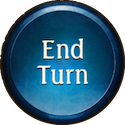
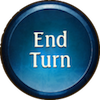
bunch of scaling changes

diff --git a/cards/CardHand.js b/cards/CardHand.js
@@ -1,5 +1,5 @@
 function CardHand(game, dungeon, PlayerCharacter, opacity){
-    this.x = 525;// each card will be 75 units wide for now
+    this.x = game.width / 3.7;// each card will be 75 units wide for now
     this.y = game.height * .7;
     this.dungeon = dungeon;
     this.opacity = opacity;
@@ -56,7 +56,8 @@ CardHand.prototype.generateInitialHand = function () {
     for(let i = 0; i < this.currentCardDraw; i++) {
         var myNum = getRandomInt(this.DeckListCardsRemaining.length);
         var card = this.DeckListCardsRemaining[myNum];
-        var newCard = new Card(this.game, this.dungeon, this, card, this.x + (card.width * i), this.y,  i)
+        //debugger
+        var newCard = new Card(this.game, this.dungeon, this, card, this.x + (this.width * i), this.y,  i)
         var index = this.DeckListCardsRemaining.indexOf(card);
         if (index > -1) {
             this.DeckListCardsRemaining.splice(index, 1);
@@ -92,8 +93,8 @@ CardHand.prototype.generateNewHand = function () {
         
         var myNum = getRandomInt(this.DeckListCardsRemaining.length);
         var card = this.DeckListCardsRemaining[myNum];
-
-        var newCard = new Card(this.game, this.dungeon, this, card, this.x + (card.width * i), this.y,  i )
+        //debugger
+        var newCard = new Card(this.game, this.dungeon, this, card, this.x + (this.width * i), this.y,  i )
 
         var index = this.DeckListCardsRemaining.indexOf(card);
         if (index > -1) {
@@ -123,6 +124,7 @@ CardHand.prototype.drawCard = function () {
     if (this.DeckListCardsRemaining.length != 0) {
         var myNum = getRandomInt(this.DeckListCardsRemaining.length);
         var card = this.DeckListCardsRemaining[myNum];
+        //debugger
         var newCard = new Card(this.game, this.dungeon, this, card, this.x, this.y, this.cardsInHand.length)
         var index = this.DeckListCardsRemaining.indexOf(card);
         if (index > -1) {
@@ -142,7 +144,8 @@ CardHand.prototype.addCard = function (card) {
 
         console.log(card)
     }
-    var newCard = new Card(this.game, this.dungeon, this, card, this.x + (card.width * this.cardsInHand.length), this.y, this.cardsInHand.length)
+    //debugger
+    var newCard = new Card(this.game, this.dungeon, this, card, this.x + (this.width * this.cardsInHand.length), this.y, this.cardsInHand.length)
     this.cardsInHand.push(newCard);
 }
 

diff --git a/miscassets/ManaBar.js b/miscassets/ManaBar.js
@@ -37,14 +37,14 @@ ManaBar.prototype.draw = function () {
     }
 
     this.ctx.save();
-    this.ctx.font = "40px Impact";
+    this.ctx.font = "30px Impact";
     this.ctx.fillStyle = "#ffffff";
-    this.ctx.fillText(this.mana , this.x + 50, this.y + 80 ); 
-    this.ctx.font = "70px Impact";
+    this.ctx.fillText(this.mana , this.x + 35, this.y + 60 ); 
+    this.ctx.font = "50px Impact";
 
-    this.ctx.fillText('/', this.x + 75, this.y + 110 ); 
-    this.ctx.font = "40px Impact";
-    this.ctx.fillText(this.maxMana , this.x + 110, this.y +120 ); 
+    this.ctx.fillText('/', this.x + 55, this.y + 85 ); 
+    this.ctx.font = "30px Impact";
+    this.ctx.fillText(this.maxMana , this.x + 80, this.y + 100 ); 
     this.ctx.restore();
 
 };

diff --git a/miscassets/TopBanner.js b/miscassets/TopBanner.js
@@ -7,7 +7,7 @@ function TopBanner(game,opacity) {
     this.game = game;
     this.ctx = game.ctx;
     this.width = game.width;
-    this.height = game.width / 24;
+    this.height = 120;
     this.banner_spritesheet = AM.getAsset("./img/travel/top banner.png")
     this.sprite_heart = AM.getAsset("./img/heart_sprite.png")
     this.sprite_gold = AM.getAsset("./img/gold_sprite.png")
@@ -29,7 +29,7 @@ TopBanner.prototype.draw = function () {
 
     this.ctx.save();
     this.ctx.fillStyle = "#FF8C00";
-    this.ctx.font = '40px Arial Black'
+    this.ctx.font = '30px Arial Black'
 
     //displays class and icon
     this.ctx.drawImage(this.sprite_class, 15, this.yOffset);

diff --git a/main.js b/main.js
@@ -96,7 +96,7 @@ AM.downloadAll(function () {
     gameEngine.height = canvas.height;
 
     var myManaBar = new ManaBar(gameEngine, [AM.getAsset("./img/mana_bar.png"),AM.getAsset("./img/mana_empty.png"),
-                                             AM.getAsset("./img/mana_circle.png")], 150, 150, 1);
+                                             AM.getAsset("./img/mana_circle.png")], 100, 100, 1);
     
     var myBanner = new TopBanner(gameEngine, 1);
 

diff --git a/miscassets/TurnButton.js b/miscassets/TurnButton.js
@@ -1,7 +1,7 @@
 function TurnButton(game, cardHand, spritesheet, opacity) {
-  this.y = game.height * .5;
-  this.x = game.width * .854;
-  this.dimensions = 200;
+  this.y = game.height * .73;
+  this.x = game.width * .82;
+  this.dimensions = 130;
   this.opacity = opacity;
   this.spritesheet = spritesheet;
   this.game = game;

diff --git a/enemy/EnemyDataBase.js b/enemy/EnemyDataBase.js
@@ -9,7 +9,7 @@ function EnemyDataBase(game, spritesheet) {
         health: 100,
         name: 'slime',
         x: game.width * .66667, //1000
-        y: game.height * .567,  //400
+        y: game.height * .5,  //400
         hpx: game.width * .66667 - 40,
         hpy: game.height * .567 - 40,
         attacks: {

diff --git a/PlayerCharacter.js b/PlayerCharacter.js
@@ -16,7 +16,7 @@ function PlayerCharacter(game, spritesheet, HPBar, Manabar, opacity) {
     this.HPBar = HPBar;
     this.Manabar = Manabar;
     this.x = game.width * .1875;
-    this.y = 1038;
+    this.y = game.height / 2.3;
     this.HPBar.x = this.x - 55;
     this.HPBar.y = this.y - 55;
     this.gold = 0;
